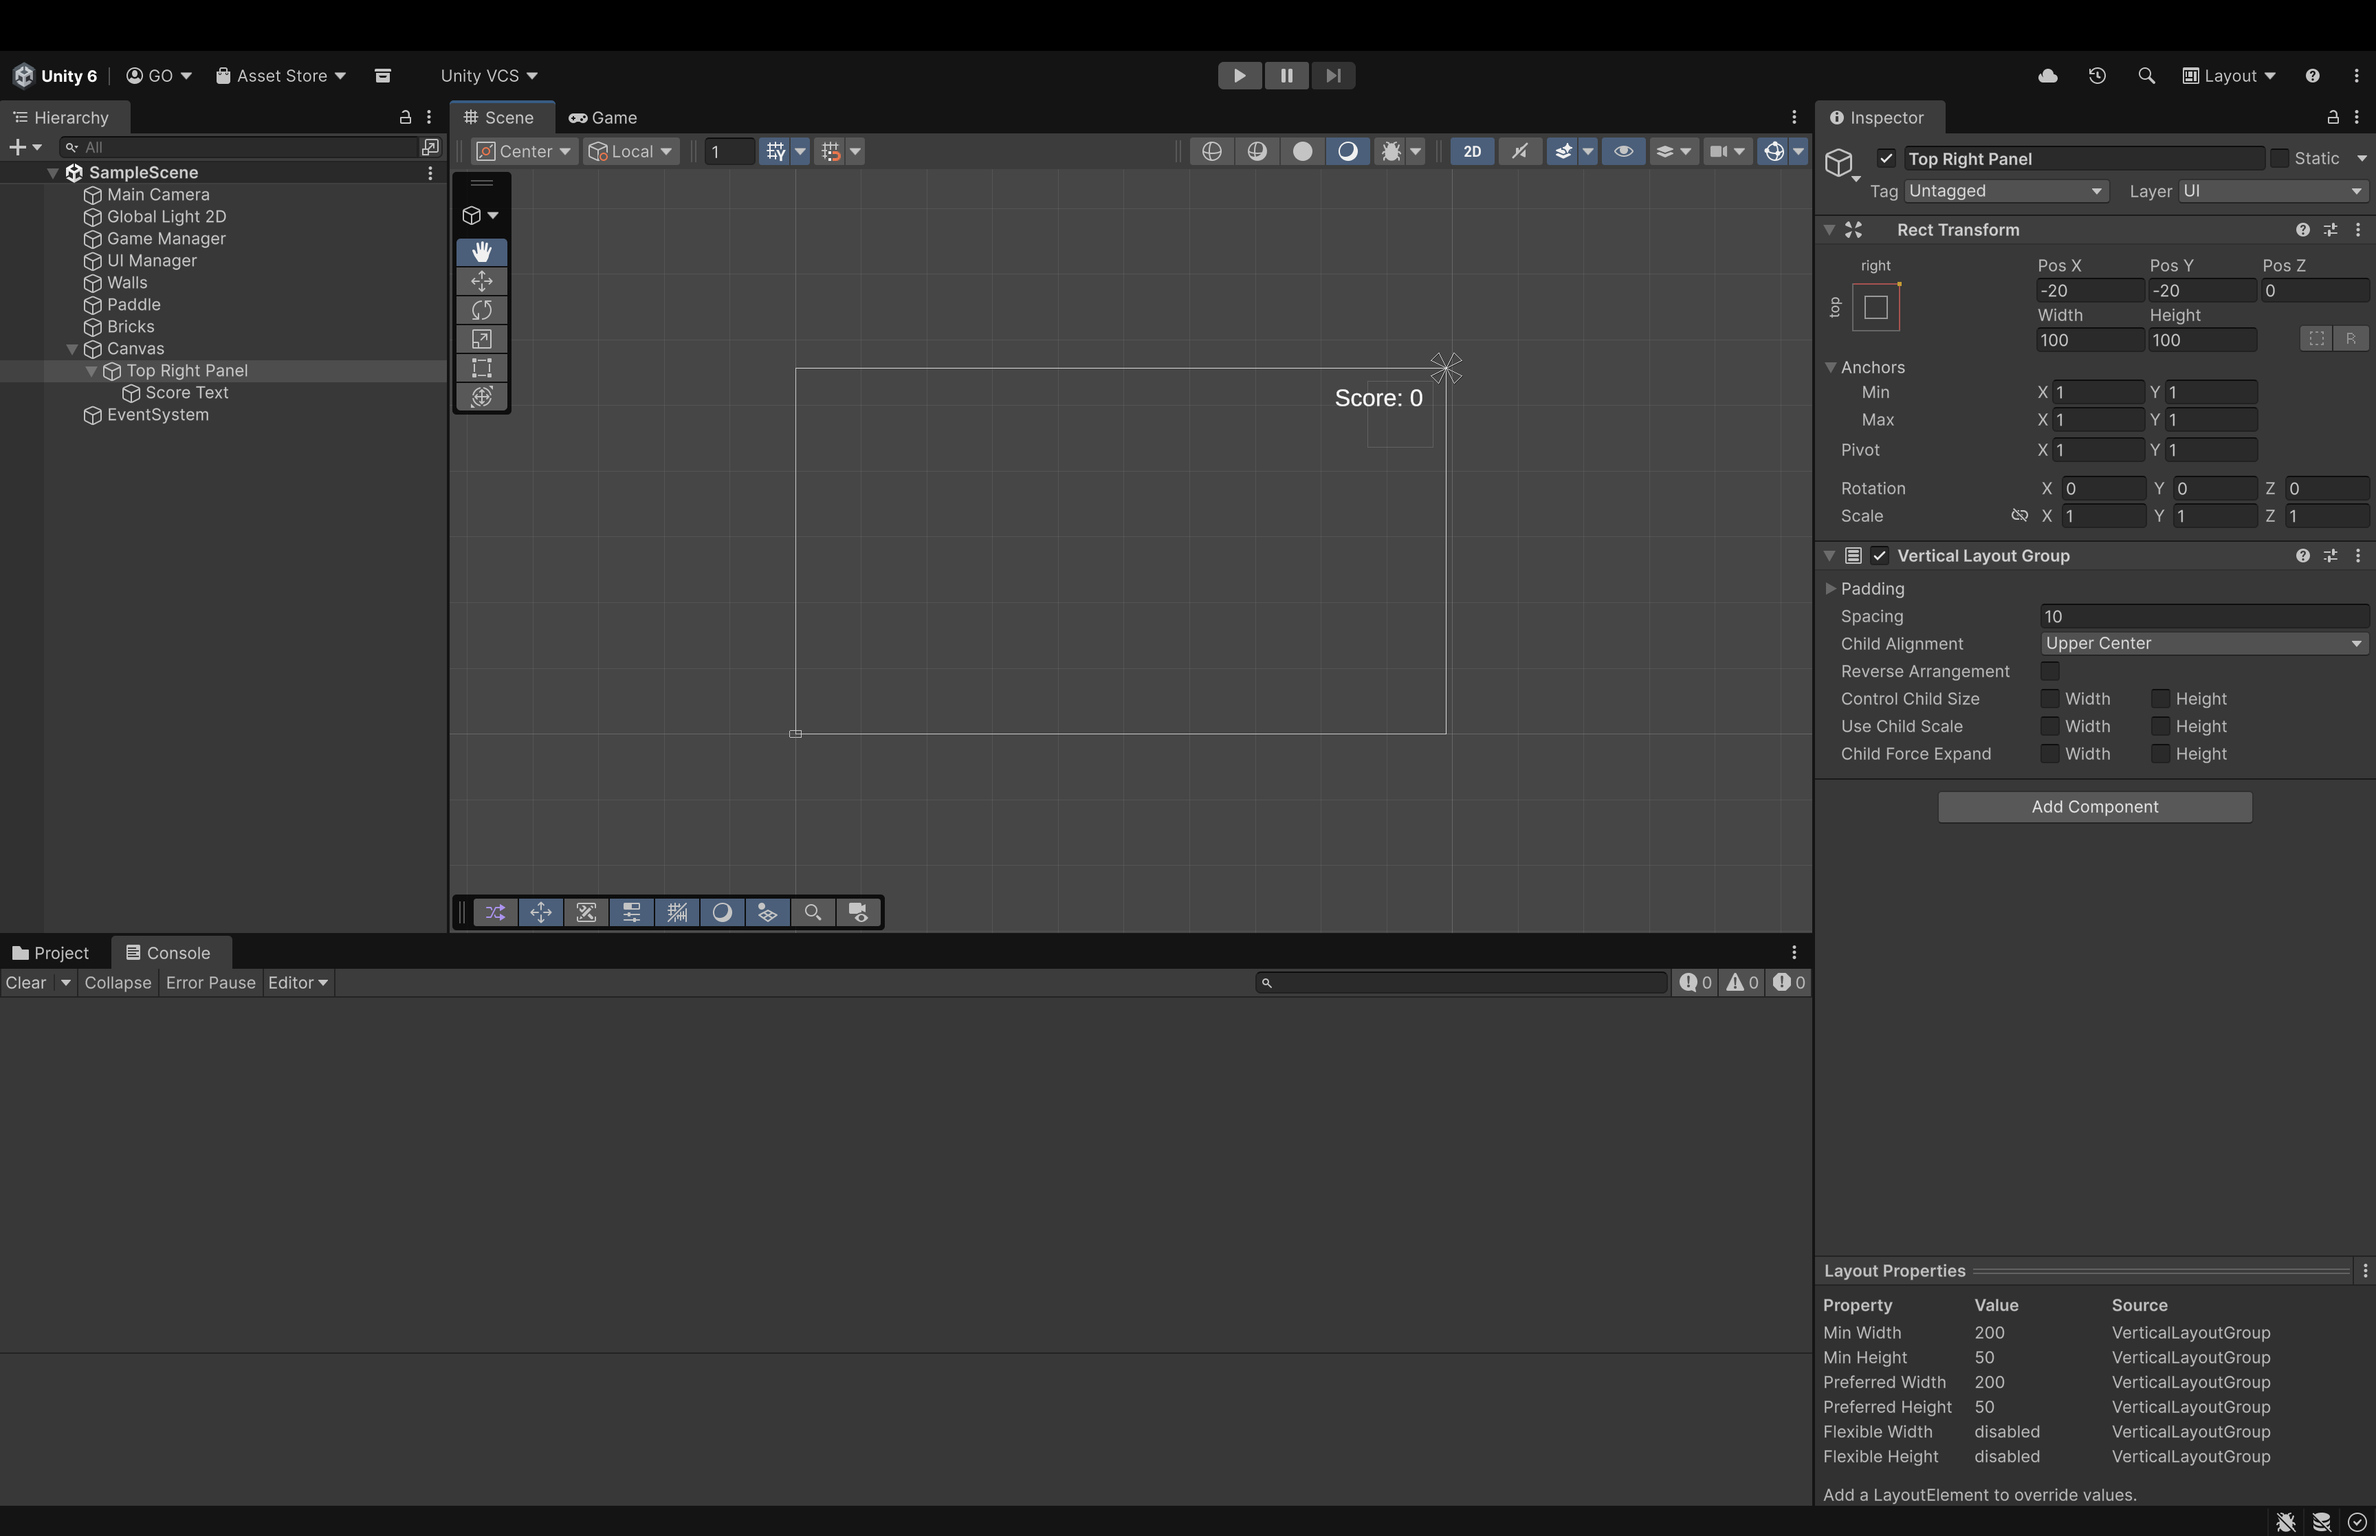
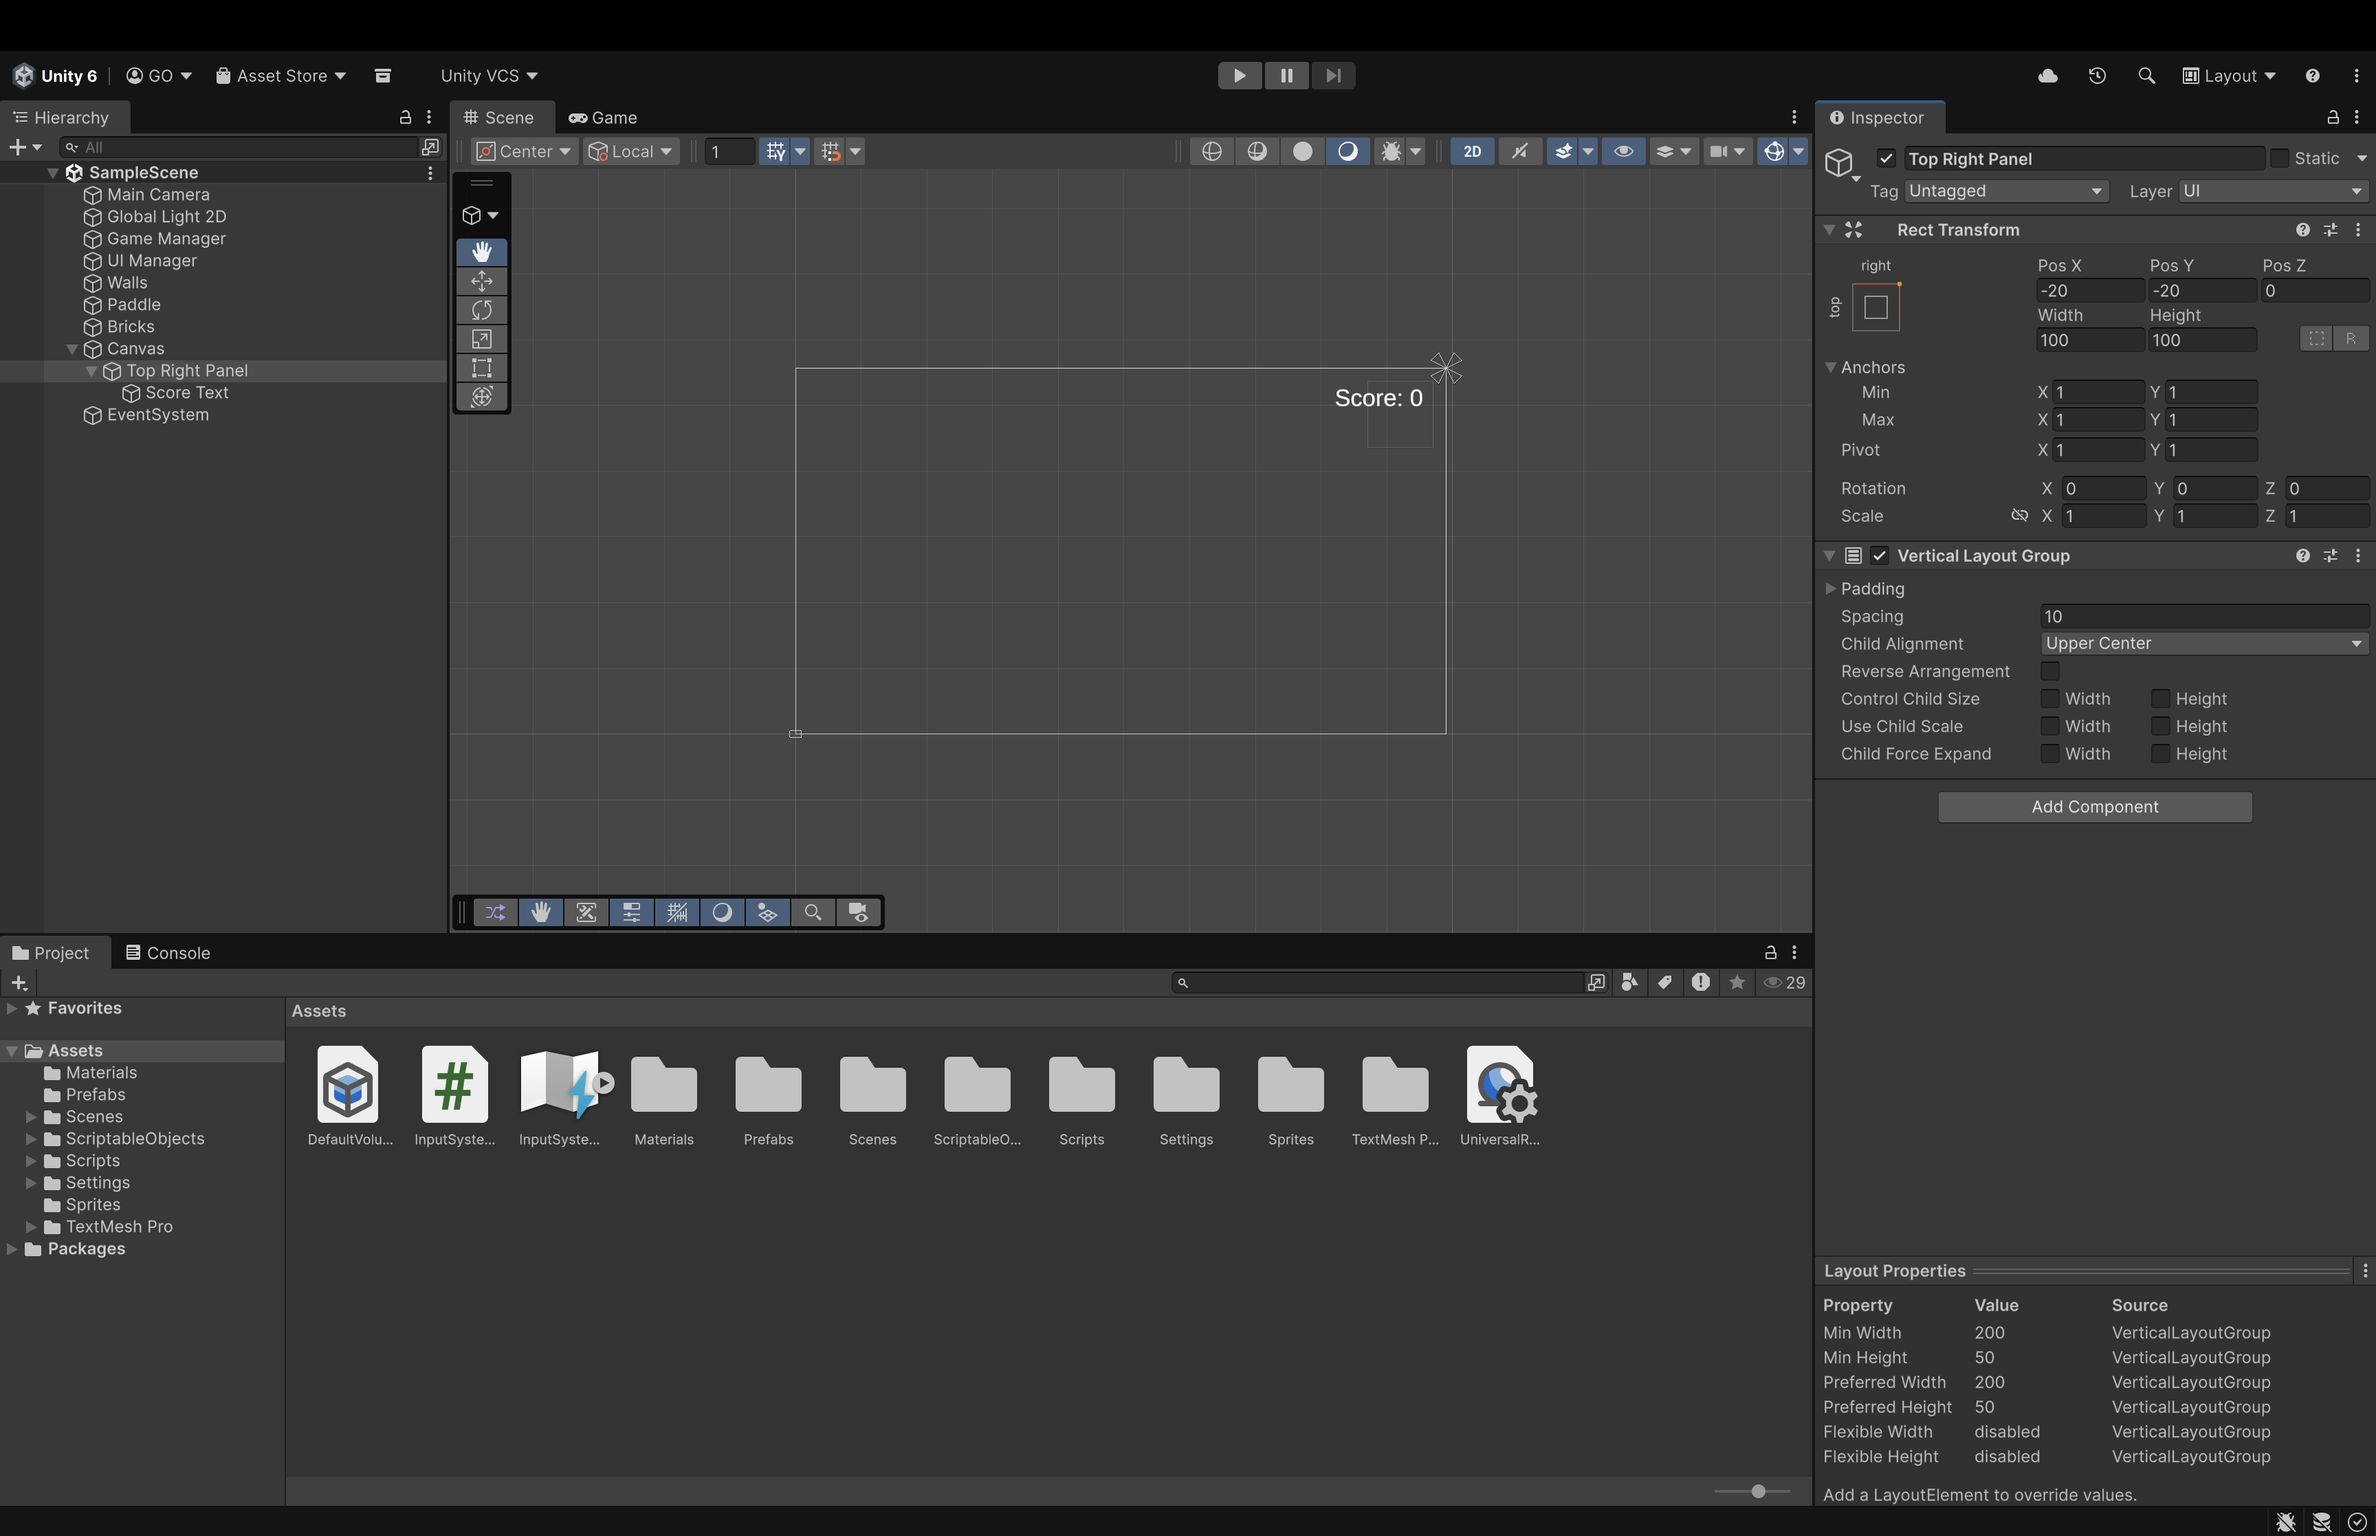
update

Changed region(s): [[0.125, 0.6795, 0.6562, 0.7413], [0.0, 0.5868, 0.125, 0.8339], [0.6562, 0.6177, 0.75, 0.6486]]

diff --git a/lecture-notes/week-02.2-breakout-2-scriptable-objects-ui/README.md b/lecture-notes/week-02.2-breakout-2-scriptable-objects-ui/README.md
@@ -231,6 +231,53 @@ A Vertical Layout Group is a component that automatically arranges its child ele
 
 ### Fonts
 
+Fonts are an important part of any UI. They can help to set the tone and style of the game. You can use custom fonts in Unity by importing them into your project and then assigning them to your UI elements.
+
+
+1. In week-02.2-breakout-2-scriptable-objects-ui folder, there is a `Fonts` folder with a variety of different fonts. Copy and paste the `Fonts` folder into the `Assets` folder of your Unity project. 
+
+![](<../../resources (ignore)/img/week-02.2-breakout-2-scriptable-objects-ui/07.png>)
+
+
+2. The fonts are in `.ttf` format, which is a common font format that can be used in Unity. Select all the font files in the `Fonts` folder, right-click and select **Create > TextMeshPro > Font Asset > SDF**. This will create a new `TMP_FontAsset` for each font file. 
+
+![](<../../resources (ignore)/img/week-02.2-breakout-2-scriptable-objects-ui/08.png>)
+
+3. You should now have a new `TMP_FontAsset` for each font file in the `Fonts` folder. 
+
+
+![](<../../resources (ignore)/img/week-02.2-breakout-2-scriptable-objects-ui/09.png>)
+
+4. You can assign these font assets to your TextMeshPro text elements to change their appearance. For example, you can assign a custom font to the `Score Text` TextMeshPro text element by selecting it in the Hierarchy panel and then setting the **Font Asset** field in the Inspector panel to one of the new `TMP_FontAsset` that you created.
+
+![](<../../resources (ignore)/img/week-02.2-breakout-2-scriptable-objects-ui/11.png>)
+
+5. You can also assign the custom font to the `Score Text` TextMeshPro text element through code by adding a reference to the `TMP_FontAsset` in the `UIManager` script and then setting the font in the `Start` method. Here is an example of how you can update the `UIManager` script:
+
+```cs
+using UnityEngine;
+using TMPro;
+
+public class UIManager : MonoBehaviour
+{
+    [Header("UI Settings")]
+    // Omitted for brevity
+    [SerializeField] private TMP_FontAsset customFont;
+
+    private void Start()
+    {
+        scoreText.font = customFont;
+        // Omitted for brevity
+    }
+
+    // Omitted for brevity
+}
+```
+
+6. Drag and drop a `TMP_FontAsset` from the Project panel onto the **Custom Font** field in the Inspector panel for the `UI Manager` GameObject.
+
+![](<../../resources (ignore)/img/week-02.2-breakout-2-scriptable-objects-ui/12.png>)
+
 ---
 
 ## Exercises
